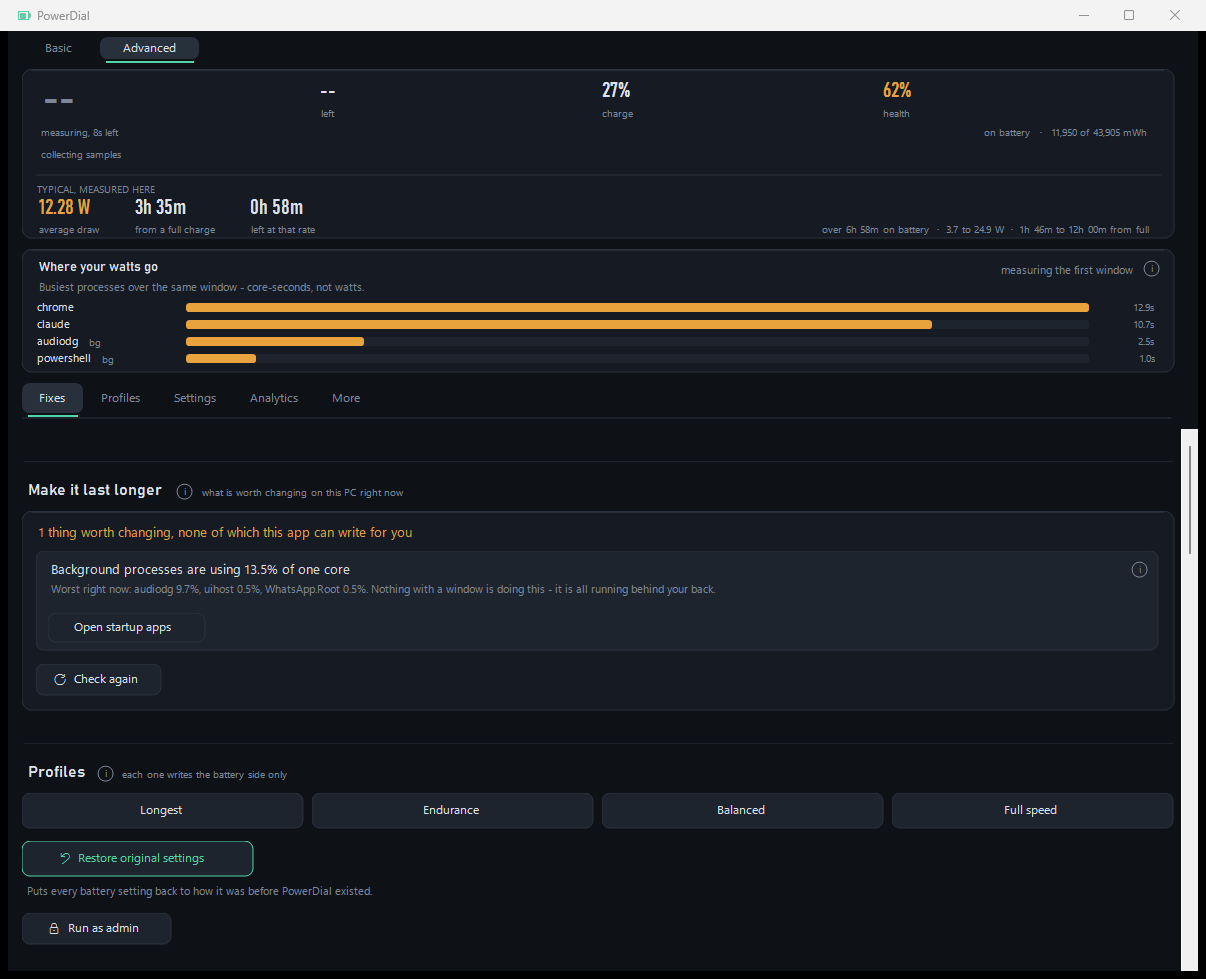
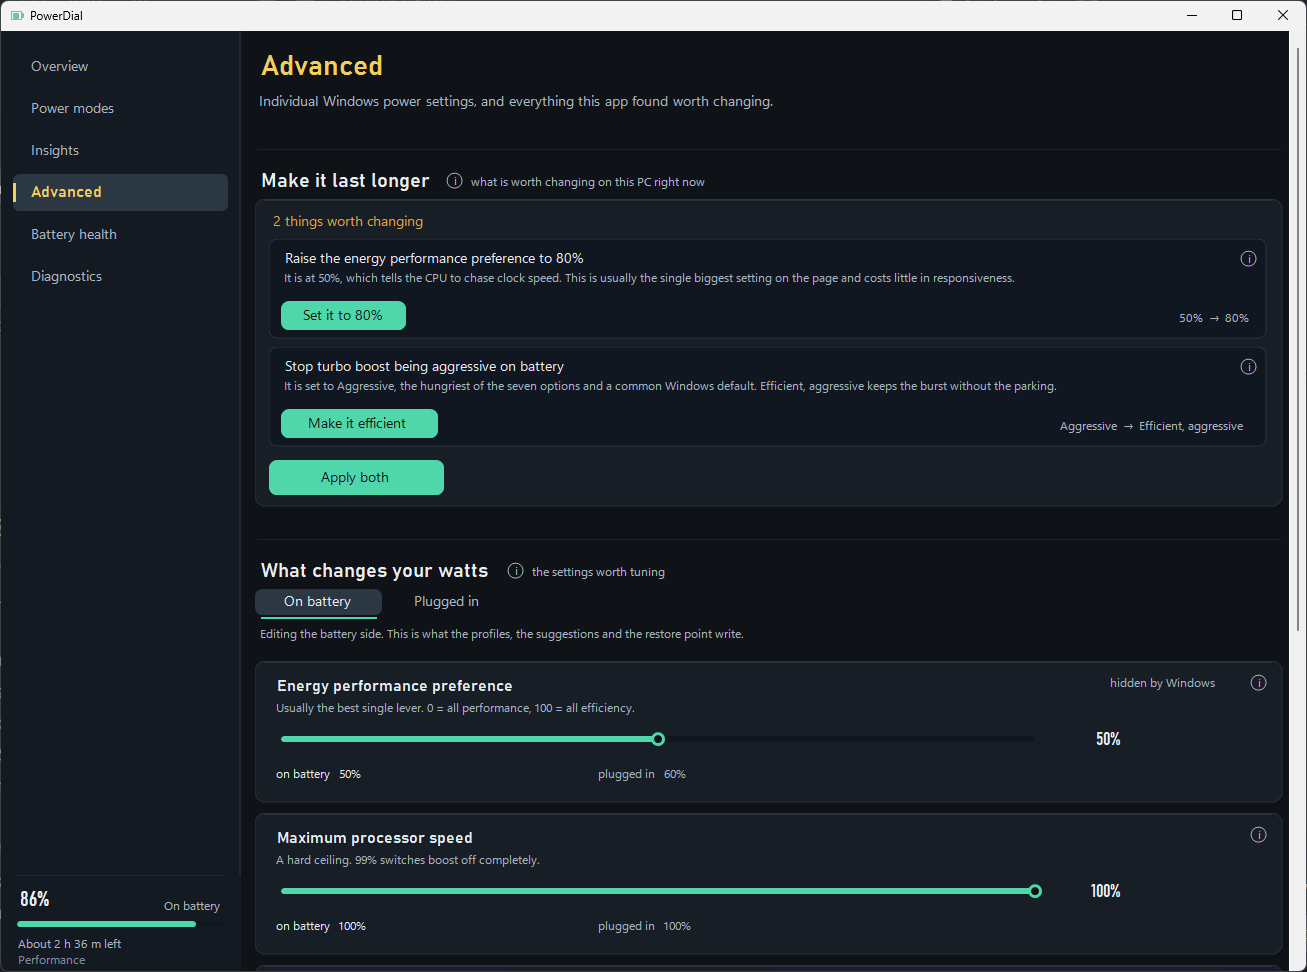
Add PowerShell script for capturing PowerDial window screenshots
- Introduced `shots.ps1` script to capture the PowerDial window as PNG images.
- The script allows users to specify output directory and delay before capturing.
- It retrieves window dimensions accurately using DwmGetWindowAttribute to avoid dark margins.
- Includes prompts for user interaction to navigate through different pages of the application.
- Captured images are saved in the specified output directory with size and file information displayed.

diff --git a/README.md b/README.md
@@ -12,6 +12,13 @@ never see a watt figure borrowed from someone else's machine.
 
 On a desktop the battery panels stand down and the rest carries on.
 
+![Overview](docs/overview.png)
+
+*Overview. Every number on it was measured on the machine it is running on - the charge and
+health from the battery itself, the draw timed from its energy counter, the processor time
+sampled per process. The two settings worth changing are named, with one button that
+changes them.*
+
 ## Run it
 
 Double-click `PowerDial.exe` in this folder, or the shortcut if you made one.
@@ -31,6 +38,13 @@ The battery stated once; the single most worthwhile change with a button that ma
 what your current settings are worth against the ones this laptop started with; the mode in
 effect; and what is keeping the processor busy.
 
+![Power modes](docs/power-modes.png)
+
+*Power modes. The mode in effect carries a tick, a badge and a heavier border, and its
+button is gone - there is nothing to apply. Each card shows what it drew here and over how
+many minutes; a mode with too little recorded says so rather than showing a figure it has
+not earned.*
+
 **Power modes** - five cards, each stating the trade in a sentence, listing what it
 actually changes, and showing what it measured **here**. *Max battery*, *Battery saver*,
 *Balanced*, *Performance*, and **Original settings** - how this laptop was set up before
@@ -39,16 +53,41 @@ is a profile like any other: you can pick it, it lights up when you are on it, a
 recorded while you are get grouped under it, which is what makes the comparison on Overview
 and Insights possible at all.
 
+![Insights](docs/insights.png)
+
+*Insights. The comparison at the top is two measured averages, not a projection - and when
+the change made things worse it says so, including the likeliest reason. The ranking below
+scales every bar against the thirstiest mode, colours only the cheapest and the dearest,
+and states the span the recording covers.*
+
 **Insights** - what your last change was worth, in watts and in hours per charge; what each
 mode has cost, ranked, with the span the recording covers; the draw and charge charts; the
 apps using the most power; and the cumulative per-process tally across every session.
 
+![Advanced](docs/advanced.png)
+
+*Advanced. Every setting carries an info icon explaining what it does, what it costs, and
+which of its numbers were measured rather than assumed. Four of the ten are ones Windows
+hides from its own Power Options.*
+
 **Advanced** - every individual power setting with what it does and what it costs, plus the
 full list of what is worth changing.
+
+![Battery health](docs/battery-health.png)
+
+*Battery health. Its own page because it is a fact about the hardware rather than a record
+of your usage, it moves over months rather than minutes, and nothing in the app can act on
+it.*
 
 **Battery health** - how much charge the pack still holds against what it shipped with, and
 the one honest thing there is to say about wear: nothing in this app or in Windows gives
 back capacity that is already gone.
+
+![Diagnostics](docs/diagnostics.png)
+
+*Diagnostics. Both sections stay collapsed because on most machines the answer is "nothing
+is wrong" - the GPU watch usually finds nothing to report, and if you have never seen the
+activity log, nothing has failed.*
 
 **Diagnostics** - the GPU watch, the activity log, and **Run as admin** for the few settings
 that need it.
@@ -67,7 +106,9 @@ there is not enough recorded yet it says so instead of guessing.
       README.md                 this file
       CLAUDE.md                 the working brief for changing it
       scripts\publish.ps1       build, replace PowerDial.exe, start it
+      scripts\shots.ps1         recapture the screenshots in this README
       scripts\sign.ps1          Authenticode signing
+      docs\                     the screenshots
       src\PowerDial\            source
       src\PowerDial-selftest\   read-only checks against the live machine
 
@@ -106,6 +147,21 @@ double-click is the published single file at the root, and that only changes whe
 publish - so building and then running the old exe looks exactly like a change that did
 nothing. Use the script.
 
+### Screenshots
+
+The images above are captured from a running copy, so they go stale the moment the
+interface changes:
+
+    .\scripts\shots.ps1
+
+It prompts once per page - switch PowerDial to the page it names, press Enter - and writes
+`docs\<page>.png`. It captures the app's own window rather than the screen, using
+`DwmGetWindowAttribute` rather than `GetWindowRect`: on Windows 10 and 11 a window's real
+rectangle includes several pixels of invisible resize border, which is what puts a dark
+margin down each side of a naively captured shot. Maximise the window first for wide shots,
+and be on battery - plugged in, half the figures correctly report that there is nothing to
+measure.
+
 ### Signing
 
 The portable copy is Authenticode-signed in place, so sign it *after* copying it out:
@@ -140,9 +196,15 @@ battery's own energy counter over a 60-second window. That means:
   reflects the new state instead of averaging across the change
 
 **Profiles.** Longest / Endurance / Balanced / Full speed - shown as *Max battery* /
-*Battery saver* / *Balanced* / *Performance*. *Balanced* is the configuration that actually
-measured **6.92 W (6h21m)** here. All of them write the **on-battery side only**; a profile
-never touches plugged-in behaviour.
+*Battery saver* / *Balanced* / *Performance*. All of them write the **on-battery side
+only**; a profile never touches plugged-in behaviour.
+
+Which one is cheapest is not a question this file can answer, and it deliberately does not
+try - an earlier version of it quoted a figure from one tuning session that the app's own
+recording now contradicts. *What each mode has cost you* on Insights is the answer, measured
+on your machine, and it can be surprising: *Performance* often beats *Balanced* outright,
+because boost finishing a burst quickly returns the CPU to idle sooner, and idle is where
+the savings are. That is the whole reason the app measures instead of asserting.
 
 **Original settings.** A fifth profile, and the way back. It is how this laptop was set up
 before PowerDial wrote anything: the snapshot is taken on first run, before the UI is
